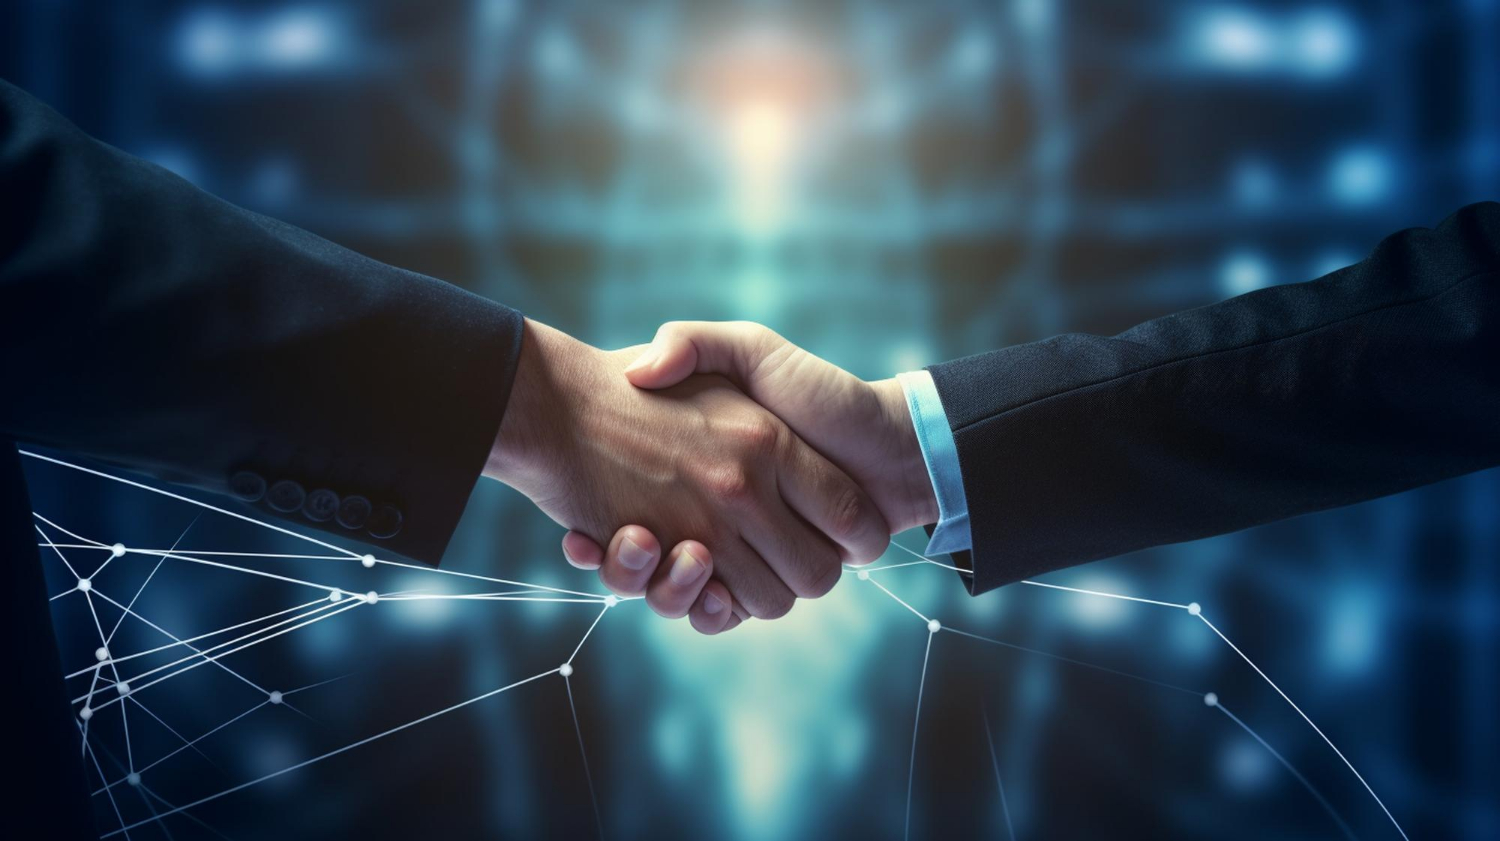
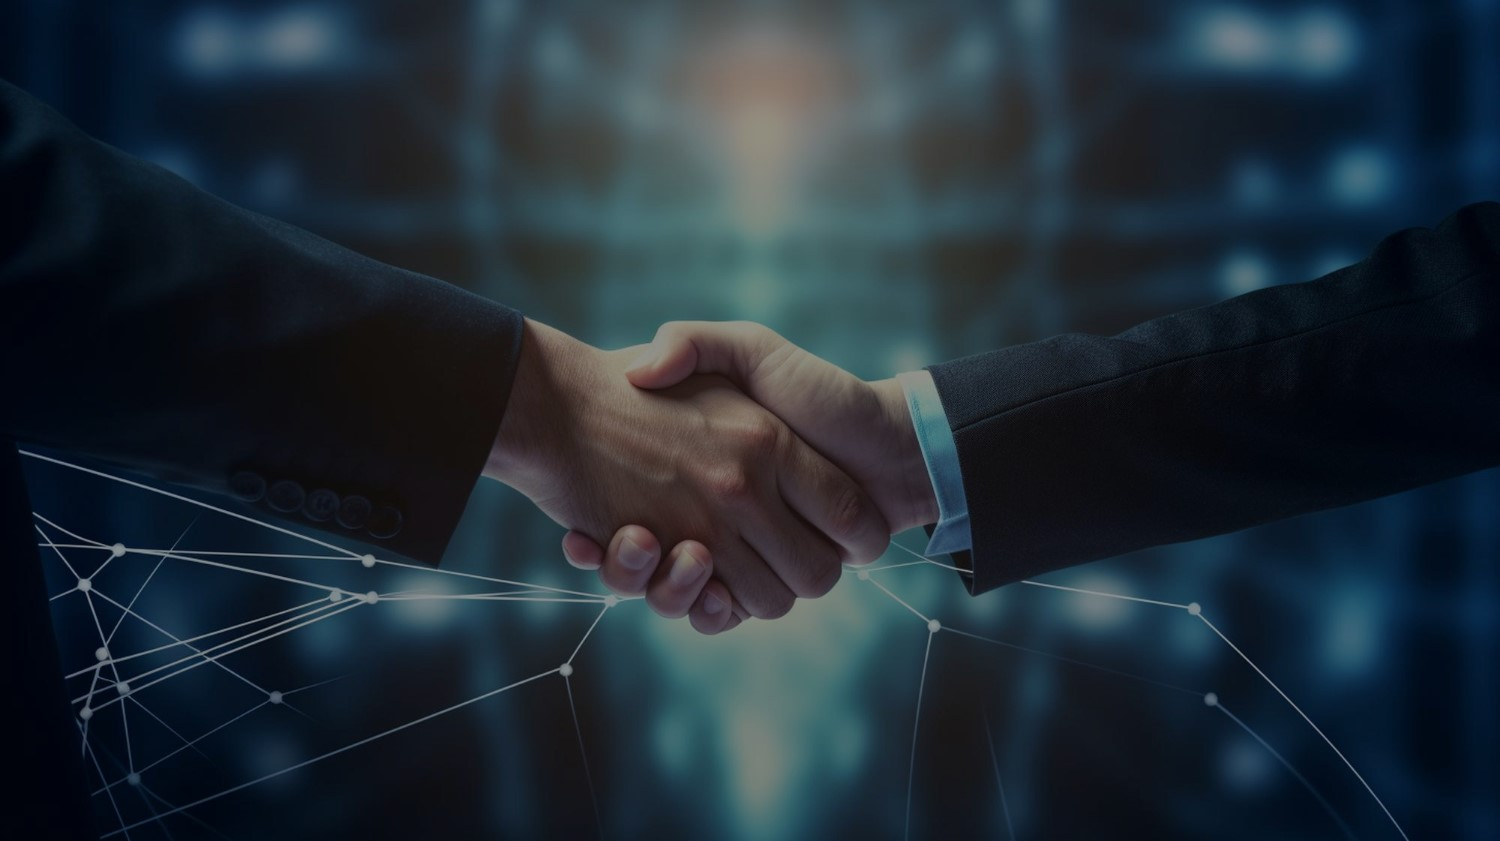
added support section and completed the assignment

diff --git a/index.html b/index.html
@@ -8,6 +8,8 @@
     <link rel="stylesheet" href="./styles/styles.css">
 </head>
 <body>
+    <!--Banner-->
+
     <header>
         <section class="Hero-bg">
             <div class="banner">
@@ -22,7 +24,9 @@
             </div>
         </section>
     </header>  
-    <main>
+    <main>        
+        <!--Web Dev-->
+
         <section class="section-1">
             <div class="content-1">
                 <h2 class="title-1">Why Web Development?</h2>
@@ -74,6 +78,8 @@
             </div>
         </section>
 
+        <!--Video-->
+
         <section class="section-2">
             <div class="content-2">
                 <div>
@@ -85,6 +91,7 @@
             </div>
         </div>
 
+        <!--Target-->
 
         <section class="section-3">
             <div class="content-3">
@@ -122,12 +129,30 @@
                 </div>
             </div>
         </section>
-              
+
+        <!--Support-->
+
+        <div class="support-section">
+            <div class="support-content">
+                <h1>I need Support</h1>
+                <p>
+                    If you have any suggestion and feedback please submit it here.
+                </p>
+                <div class="input-group">
+                    <input type="text" name="feedback" id="support-input" placeholder="Suggest any feedback for me" />
+                    <button id="submit-btn">Submit</button>
+                </div>
+            </div>
+            </div>          
     </main>
+
+
     <footer id="footer">
         <div class="last-section">
             <div class="footer-head">
-                <p><strong>An Open Commitment by Shahriar Ahmed</strong></p>
+                <p><strong>
+                    An Open Commitment by Shahriar Ahmed
+                </strong></p>
             </div>
             <div class="social-icons">
                 <a href="https://www.facebook.com/xShahriarA/" target="_blank">
@@ -141,6 +166,6 @@
                 </a>
             </div>
         </div>
-    </footer>
+    </footer>    
 </body>
 </html>

diff --git a/styles/styles.css b/styles/styles.css
@@ -218,7 +218,7 @@ body{
 
 
 /* My Current Target */
-.section-3 {
+.section-3{
     width: 100%;
     max-width: 1140px;
     margin: 50px auto;
@@ -227,20 +227,20 @@ body{
     align-items: center;
     padding: 80px 20px;
 }
-.content-3 {
+.content-3{
     width: 100%;
     display: flex;
     flex-direction: column;
     align-items: center;
     text-align: center;
 }
-.title-3 {
+.title-3{
     color: #0D1321;
     font-size: 32px;
     font-weight: 800;
     margin-bottom: 10px;
 }
-.p-3 {
+.p-3{
     color: #0D1321;
     font-size: 16px;
     font-weight: 400;
@@ -296,6 +296,75 @@ body{
 .learn-more-link:hover{
     text-decoration: none;
 }
+
+
+
+/* Support Section */
+.support-section{
+    background-image: url('../assets/handshake.jpg');
+    background-size: cover;
+    background-position: center;
+    padding: 50px 20px;
+    border-radius: 16px;
+    display: flex;
+    justify-content: center;
+    align-items: center;
+}
+.support-content{
+    padding: 40px;
+    border-radius: 16px;
+    text-align: center;
+    color: #fff;
+}
+.support-content h1{
+    color: white;
+    font-size: 32px;
+    font-weight: 700;
+    line-height: 36px;
+    word-wrap: break-word;
+    margin-bottom: 20px;
+}
+.support-content p{
+    color: white;
+    font-size: 16px;
+    font-weight: 400;
+    line-height: 26px;
+    word-wrap: break-word;
+    margin-bottom: 30px;
+}
+.input-group{
+    display: flex;
+    align-items: center;
+    justify-content: center;
+}
+#support-input{
+    color: #0D132166;
+    font-size: 16px;
+    font-weight: 400;
+    word-wrap: break-word;
+    padding: 15px;
+    border: none;
+    border-radius: 8px;
+    font-size: 16px;
+    margin-right: 10px;
+    flex: 1;
+    min-width: 300px;
+}
+#submit-btn{
+    color: #0D1321;
+    font-size: 20px;
+    font-weight: 600;
+    word-wrap: break-word;
+    padding: 15px 30px;
+    border: none;
+    border-radius: 8px;
+    background-color: #fff;
+    cursor: pointer;
+}
+#submit-btn:hover{
+    background-color: #f0f0f0;
+}
+
 
 
 
